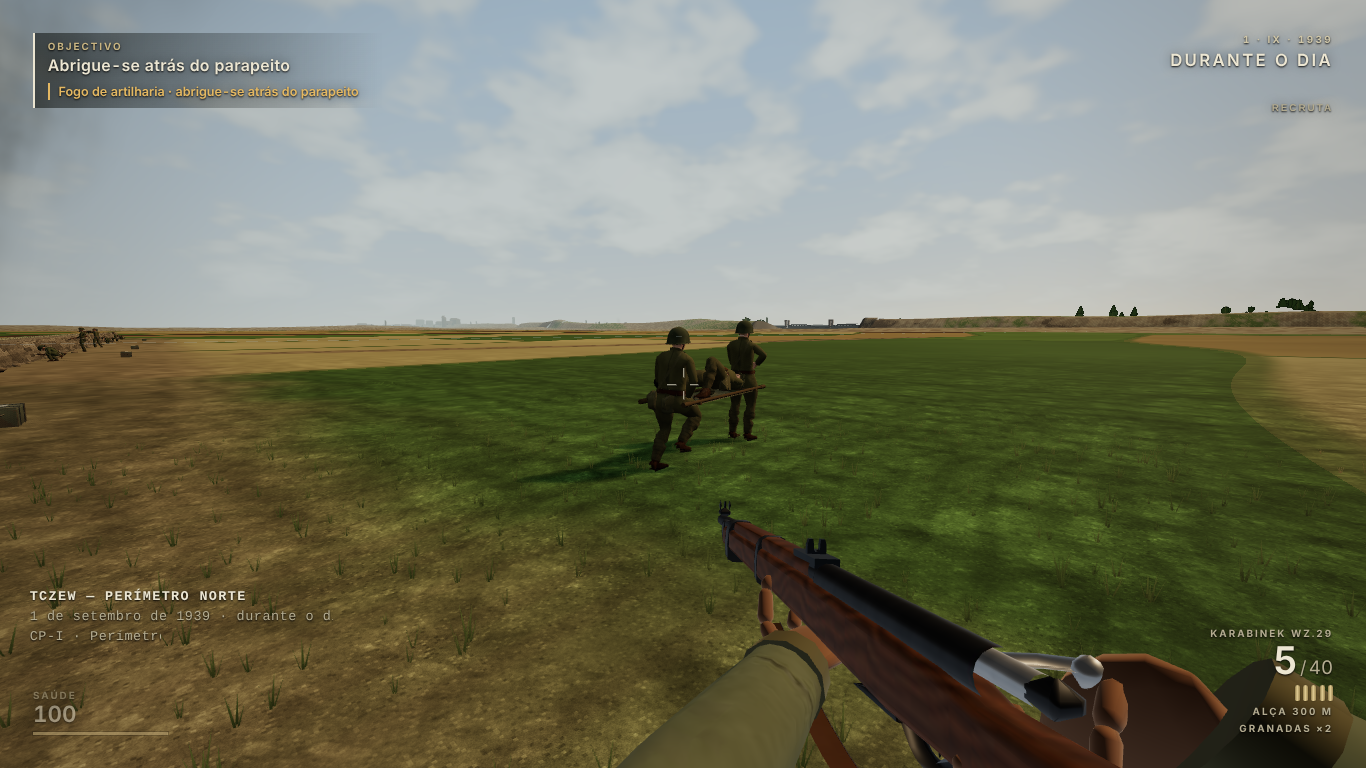
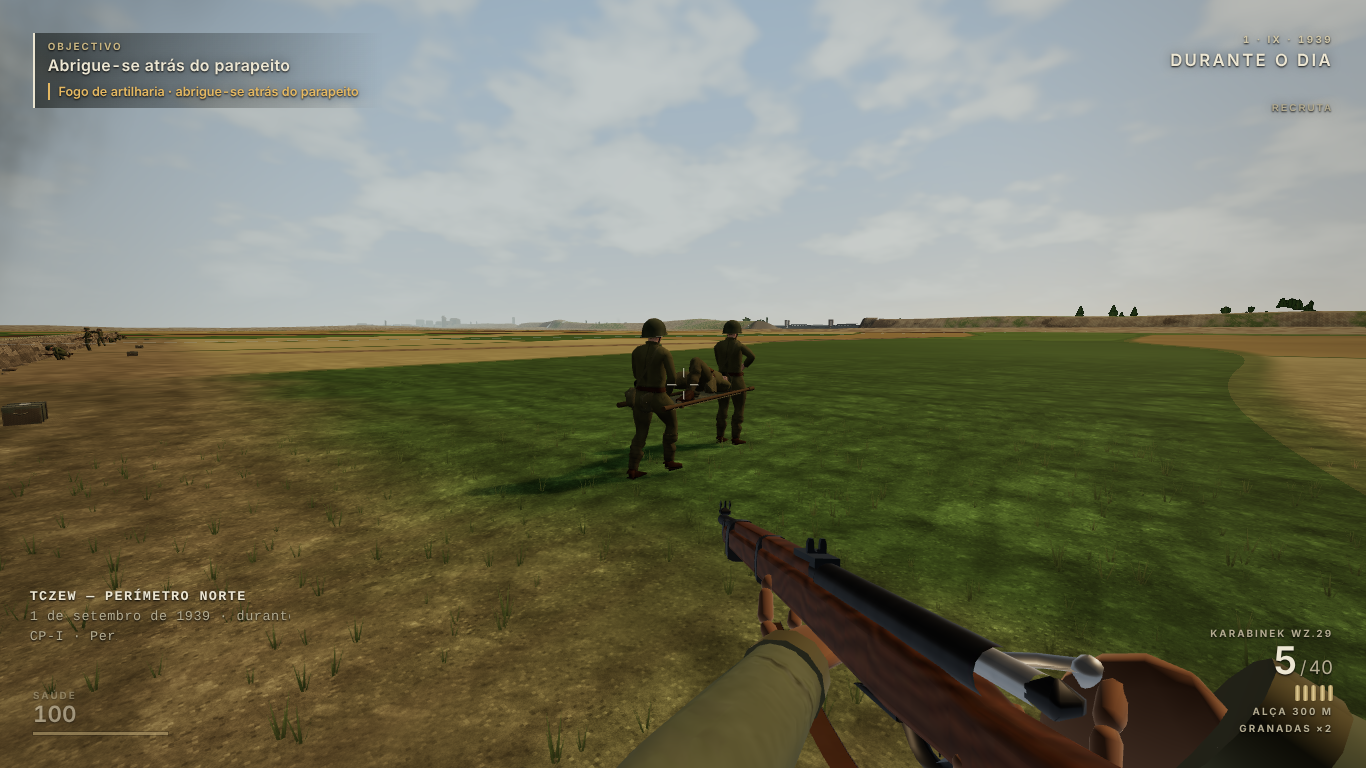
docs(m01): stretcher captures regenerated at 7b282723 (in-line carry from the simulation)
Claude-Session: https://claude.ai/code/session_01ANYrNLFzqWiG19AyrGKZ7q

diff --git a/docs/verification/m01-runtime/area-render-polish-2026-11-05/README.md b/docs/verification/m01-runtime/area-render-polish-2026-11-05/README.md
@@ -59,3 +59,7 @@ Leitura: o custo próprio do acabamento é de +2 chamadas (maca: madeira e lona)
 - Impacto de granada: o clarão e a poeira existem no fotograma do impacto (provado pelo contador e pelo recorte), mas a granada captada cai longe; não prova o aspeto de um impacto a 30–50 m.
 - Crepúsculo: as lanternas e o brilho da vila existem e dão uma referência diegética; porém as lanternas a 200 m são pontos pequenos. A luminância média da imagem inteira (inclui HUD) não é uma medida limpa: em seis de sete pares de comparação subiu (por exemplo vila High 73→93, saída 130 m High 77→87, linha Low 80→90) mas em `dusk-line-high` desceu (78→67; céu 114→94, chão 40→39), e repetida uma segunda vez dá o mesmo valor (65). Não se conseguiu explicar com certeza (variações de nuvens e sombras de nuvens em High, ou a coluna de fumo escura sobre o céu, são hipóteses não verificadas). Portanto a «legibilidade» melhorou nas outras cenas, mas não em todas, e não há prova de que a elevação do ambiente funcione igual em todos os fotogramas.
 - Nenhum destes elementos substitui um teste de jogo: validar com o proprietário.
+
+## Atualização 2026-11-06 — maca em fila
+
+Desde `7b282723` (correção `fix2-stretcher`) a formação dos maqueiros vive na simulação: o segundo maqueiro vai 2 m atrás do primeiro e o ferido segue deitado no ponto médio; o renderer já não desloca nenhum corpo atingível. `stretcher-carry-high.png`/`-low.png`, os dois `report-carry-*.json` e `inc2-vii-b-2026-11-04/05-bearers-carry.png` foram regenerados pela suite de browser final nesse SHA (substituem as capturas do transporte ao ombro). Vista: dois maqueiros com a maca e o ferido deitado; as mãos ainda não seguram as varas (defeito de apresentação conhecido).
